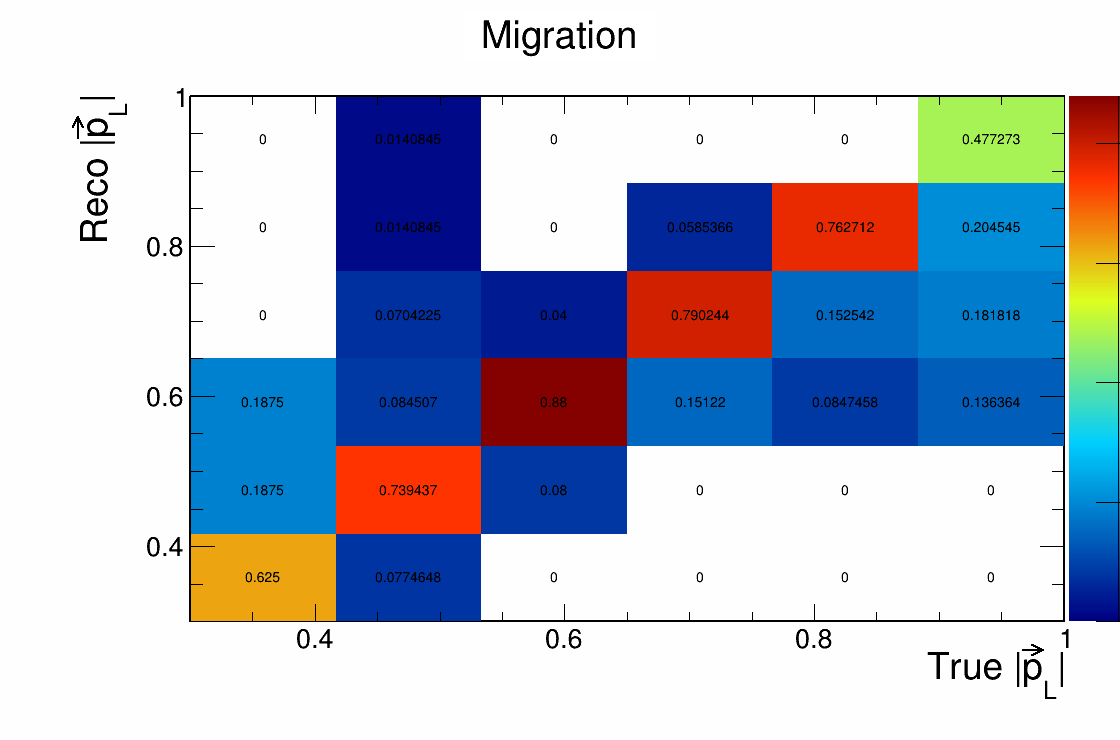
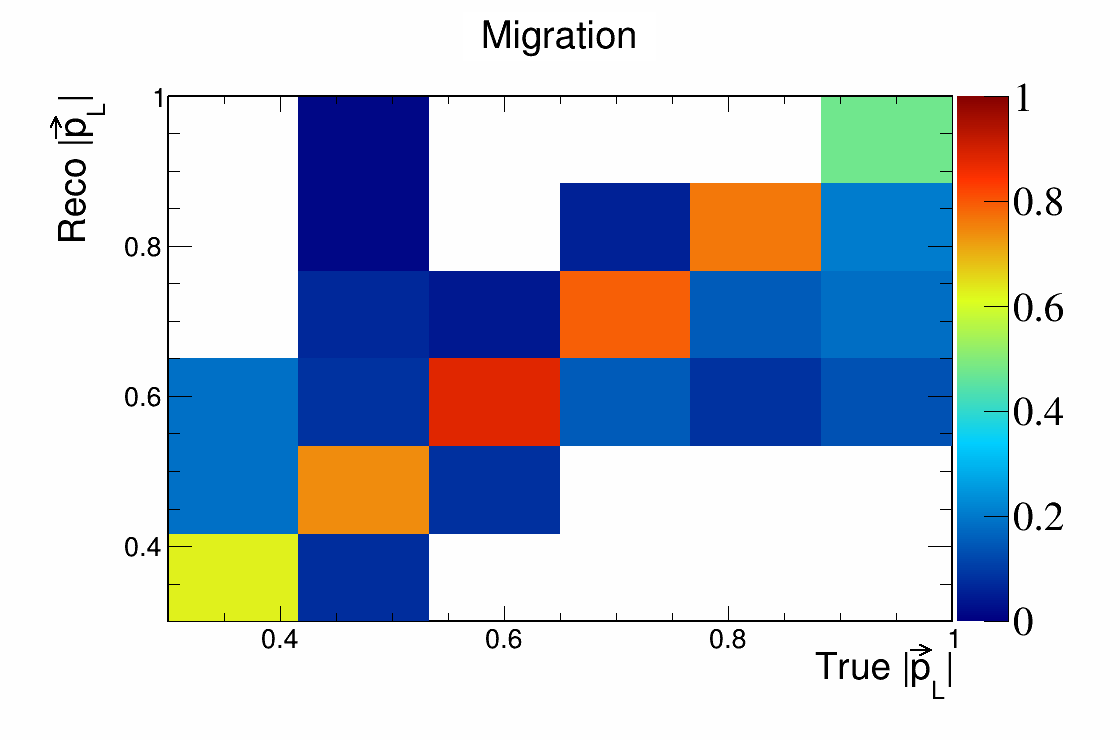
Better style for migration and selection matrices

diff --git a/CAFAnaAnalysis/Scripts/SelectionMigrationMatrix.C b/CAFAnaAnalysis/Scripts/SelectionMigrationMatrix.C
@@ -49,7 +49,7 @@ void SelectionMigrationMatrix() {
     TString dir = "/exp/sbnd/app/users/epelaez/CC1muAnalysis";
 
     // Root file to store objects in
-    TString RootFilePath = "/pnfs/sbnd/persistent/users/epelaez/CAFAnaOutput/Matrix.root";
+    TString RootFilePath = "/exp/sbnd/data/users/epelaez/CAFAnaOutput/Matrix.root";
     TFile* SaveFile = new TFile(RootFilePath, "RECREATE");
 
     // Vectors to fill with variable pairs and information to plot
@@ -225,23 +225,37 @@ void SelectionMigrationMatrix() {
 
         MigrationMatrix->GetXaxis()->SetTitle(("True " + VarLabels.at(i)).c_str());
         MigrationMatrix->GetYaxis()->SetTitle(("Reco " + VarLabels.at(i)).c_str());
+        MigrationMatrix->GetZaxis()->SetRangeUser(0,1);
+        MigrationMatrix->GetZaxis()->CenterTitle();
+        MigrationMatrix->GetZaxis()->SetTitleFont(FontStyle);
+        MigrationMatrix->GetZaxis()->SetTitleSize(TextSize);
+        MigrationMatrix->GetZaxis()->SetLabelFont(FontStyle);
+        MigrationMatrix->GetZaxis()->SetLabelSize(TextSize);
+        MigrationMatrix->GetZaxis()->SetNdivisions(5);
 
         ResponseMatrix->GetXaxis()->SetTitle(("True " + VarLabels.at(i)).c_str());
         ResponseMatrix->GetYaxis()->SetTitle(("Reco " + VarLabels.at(i)).c_str());
+        ResponseMatrix->GetZaxis()->SetRangeUser(0,1);
+        ResponseMatrix->GetZaxis()->CenterTitle();
+        ResponseMatrix->GetZaxis()->SetTitleFont(FontStyle);
+        ResponseMatrix->GetZaxis()->SetTitleSize(TextSize);
+        ResponseMatrix->GetZaxis()->SetLabelFont(FontStyle);
+        ResponseMatrix->GetZaxis()->SetLabelSize(TextSize);
+        ResponseMatrix->GetZaxis()->SetNdivisions(5);
 
         PlotCanvas->SetTopMargin(0.13);
-        PlotCanvas->SetLeftMargin(0.17);
-        PlotCanvas->SetRightMargin(0.05);
+        PlotCanvas->SetLeftMargin(0.15);
+        PlotCanvas->SetRightMargin(0.15);
         PlotCanvas->SetBottomMargin(0.16);
 
         PlotCanvas->cd();
-        MigrationMatrix->Draw("colz text");
+        MigrationMatrix->Draw("colz");
 
         // Save migration matrix as png
         PlotCanvas->SaveAs(dir+"/Figs/CAFAna/Matrices/Migration"+PlotNames[i]+".png");
 
         PlotCanvas->cd();
-        ResponseMatrix->Draw("colz text");
+        ResponseMatrix->Draw("colz");
 
         // Save response matrix as png
         PlotCanvas->SaveAs(dir+"/Figs/CAFAna/Matrices/Response"+PlotNames[i]+".png");
